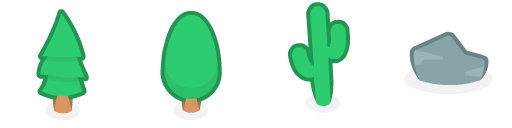
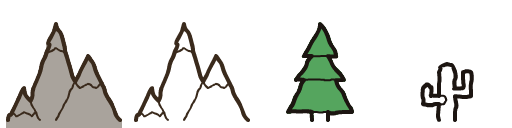
[chore] Mockup: ícones a nanquim, neve nos picos e praia mais larga (#7)
Troca os ícones pelo Kenney Cartography Pack (CC0): montanha, montanha
nevada, pinheiro e cacto, com o traço na tinta do design system. A neve
fica em manchas nos picos das cordilheiras (ridged noise), e a praia passa
de 1 para 3 células.

diff --git a/src/mockup/terrain.ts b/src/mockup/terrain.ts
@@ -39,9 +39,9 @@ export const DEFAULT_MOCK_PARAMS: MockParams = {
   desert: 0.15,
   forest: 0.35,
   mountains: 0.14,
-  snow: 0.4,
+  snow: 0.3,
   shallowWidth: 5,
-  beachWidth: 1,
+  beachWidth: 3,
 }
 
 /** Gerador pseudoaleatório determinístico a partir de um texto (hash FNV-1a + mulberry32). */
@@ -152,10 +152,13 @@ export function generateMockTerrain(
   const warpNoise = valueNoise(rand)
   const moistNoise = valueNoise(rand)
   const toneNoise = valueNoise(rand)
+  const ridgeNoise = valueNoise(rand)
   const n = width * height
   const elevation = new Float32Array(n)
   const moisture = new Float32Array(n)
   const patches = new Float32Array(n)
+  /** Elevação com ruído fino, só para escolher onde há neve: quebra a neve em manchas nos picos. */
+  const snowScore = new Float32Array(n)
 
   for (let y = 0; y < height; y++) {
     for (let x = 0; x < width; x++) {
@@ -169,9 +172,12 @@ export function generateMockTerrain(
       const r = Math.sqrt(dx * dx + dy * dy)
       const mask = 1 - Math.min(1, r * r)
       const i = y * width + x
-      elevation[i] = fbm(elevNoise, wx, wy, 5) * 0.55 + mask * 0.75
+      // Cordilheiras por ridged noise: cristas finas, mais altas no interior da ilha.
+      const ridge = 1 - Math.abs(2 * fbm(ridgeNoise, u * 5 + 3.1, v * 5 + 8.4, 4) - 1)
+      elevation[i] = fbm(elevNoise, wx, wy, 5) * 0.55 + mask * 0.75 + ridge * ridge * ridge * mask * 0.45
       moisture[i] = fbm(moistNoise, u * 4 + 11.7, v * 4 + 3.9, 4)
       patches[i] = fbm(toneNoise, u * 14, v * 14, 3)
+      snowScore[i] = elevation[i] + (fbm(toneNoise, u * 40 + 5.5, v * 40 + 1.7, 2) - 0.5) * 0.4
     }
   }
 
@@ -185,7 +191,7 @@ export function generateMockTerrain(
   const biome = new Uint8Array(n)
   const isInland = (i: number) => land[i] === 1 && toWater[i] > params.beachWidth
   const mountainLevel = quantile(elevation, 1 - params.mountains, isInland)
-  const snowLevel = quantile(elevation, 1 - params.snow, (i) => isInland(i) && elevation[i] >= mountainLevel)
+  const snowLevel = quantile(snowScore, 1 - params.snow, (i) => isInland(i) && elevation[i] >= mountainLevel)
   const hillLevel = quantile(elevation, 1 - params.mountains * 1.8, isInland)
   const isLowland = (i: number) => isInland(i) && elevation[i] < hillLevel
   const desertLevel = quantile(moisture, params.desert, isLowland)
@@ -194,7 +200,7 @@ export function generateMockTerrain(
   for (let i = 0; i < n; i++) {
     if (land[i] === 0) biome[i] = toLand[i] <= params.shallowWidth ? BIOME_ID.shallowWater : BIOME_ID.deepOcean
     else if (!isInland(i)) biome[i] = BIOME_ID.beach
-    else if (elevation[i] >= snowLevel) biome[i] = BIOME_ID.snow
+    else if (elevation[i] >= mountainLevel && snowScore[i] >= snowLevel) biome[i] = BIOME_ID.snow
     else if (elevation[i] >= mountainLevel) biome[i] = BIOME_ID.rockyMountain
     else if (elevation[i] >= hillLevel) biome[i] = BIOME_ID.hill
     else if (moisture[i] <= desertLevel) biome[i] = BIOME_ID.desert
@@ -216,7 +222,8 @@ export function generateMockTerrain(
       return d <= 3 ? 2 : d <= 14 ? 1 : 0
     }
     if (b === BIOME_ID.shallowWater) return toLand[i] <= 1 ? 2 : toLand[i] <= 3 ? 1 : 0
-    if (b === BIOME_ID.beach) return 1
+    // Praia: luz junto da água, base no resto.
+    if (b === BIOME_ID.beach) return toWater[i] <= 1 ? 2 : 1
     // Luz vinda do noroeste: hillshade posterizado, somado a manchas de baixa frequência.
     const x0 = Math.max(0, x - 1)
     const y0 = Math.max(0, y - 1)

diff --git a/src/render/style/decor.ts b/src/render/style/decor.ts
@@ -2,21 +2,38 @@ import decorUrl from './decor.png'
 import type { Biome } from './palette'
 
 /**
- * Spritesheet inicial dos ícones decorativos (`decor.png`, 512×128: quadros de 128 px lado a lado).
- * Origem: Kenney "Map Pack", CC0 (LICENSE-kenney-map-pack.txt e README.md desta pasta).
+ * Spritesheet inicial dos ícones decorativos (`decor.png`, 512×128: quadros de 128 px lado a lado,
+ * com o pé do ícone na borda de baixo).
+ * Origem: Kenney "Cartography Pack", CC0 (LICENSE-kenney-cartography-pack.txt e README.md desta pasta).
  */
 export const DECOR_SHEET_URL = decorUrl
 
 export const DECOR_FRAME_SIZE = 128
 
 export const DECOR_FRAMES = {
-  pine: { x: 0, y: 0 },
-  roundTree: { x: 128, y: 0 },
-  cactus: { x: 256, y: 0 },
-  rock: { x: 384, y: 0 },
+  mountain: { x: 0, y: 0 },
+  snowMountain: { x: 128, y: 0 },
+  pine: { x: 256, y: 0 },
+  cactus: { x: 384, y: 0 },
 } as const
 
 export type DecorKind = keyof typeof DECOR_FRAMES
+
+/** Tamanho de cada ícone no mapa, em px (a 100% de zoom). */
+export const DECOR_SIZE: Record<DecorKind, number> = {
+  mountain: 48,
+  snowMountain: 48,
+  pine: 28,
+  cactus: 26,
+}
+
+/** Chance de um ponto da grade de amostragem receber o ícone (controla a densidade). */
+export const DECOR_DENSITY: Record<DecorKind, number> = {
+  mountain: 0.4,
+  snowMountain: 0.4,
+  pine: 0.75,
+  cactus: 0.22,
+}
 
 /** Ícones possíveis em cada bioma (vazio = sem decoração). */
 export const DECOR_BY_BIOME: Record<Biome, readonly DecorKind[]> = {
@@ -24,9 +41,9 @@ export const DECOR_BY_BIOME: Record<Biome, readonly DecorKind[]> = {
   shallowWater: [],
   beach: [],
   grassland: [],
-  forest: ['pine', 'pine', 'roundTree'],
+  forest: ['pine'],
   desert: ['cactus'],
   hill: [],
-  rockyMountain: ['rock'],
-  snow: [],
+  rockyMountain: ['mountain'],
+  snow: ['snowMountain'],
 }

diff --git a/src/mockup/drawMockup.ts b/src/mockup/drawMockup.ts
@@ -1,4 +1,4 @@
-import { DECOR_BY_BIOME, DECOR_FRAMES, DECOR_FRAME_SIZE } from '../render/style/decor'
+import { DECOR_BY_BIOME, DECOR_DENSITY, DECOR_FRAMES, DECOR_FRAME_SIZE, DECOR_SIZE } from '../render/style/decor'
 import { BIOMES, BIOME_TONES, CANVAS_BACKGROUND, COAST_STROKE, hexToRgb } from '../render/style/palette'
 import { seededRandom, type MockTerrain } from './terrain'
 
@@ -51,8 +51,10 @@ export function placeDecor(t: MockTerrain, seed: string, spacing = 5): DecorPlac
       const cy = Math.floor(y)
       if (cx >= t.width || cy >= t.height) continue
       const kinds = DECOR_BY_BIOME[BIOMES[t.biome[cy * t.width + cx]]]
-      if (kinds.length === 0 || rand() > 0.8) continue
-      out.push({ kind: kinds[Math.floor(pick * kinds.length)], x, y })
+      if (kinds.length === 0) continue
+      const kind = kinds[Math.floor(pick * kinds.length)]
+      if (rand() > DECOR_DENSITY[kind]) continue
+      out.push({ kind, x, y })
     }
   }
   return out.sort((a, b) => a.y - b.y)
@@ -105,12 +107,12 @@ export function drawMockup(
 
   ctx.imageSmoothingEnabled = true
   ctx.imageSmoothingQuality = 'high'
-  const size = 26 * scale
   for (const d of decor) {
+    const size = DECOR_SIZE[d.kind] * scale
     const f = DECOR_FRAMES[d.kind]
     const px = ox + d.x * cell
     const py = oy + d.y * cell
     // Âncora na base central do quadro (o pé do ícone fica perto da borda de baixo).
-    ctx.drawImage(sheet, f.x, f.y, DECOR_FRAME_SIZE, DECOR_FRAME_SIZE, px - size / 2, py - size * 0.9, size, size)
+    ctx.drawImage(sheet, f.x, f.y, DECOR_FRAME_SIZE, DECOR_FRAME_SIZE, px - size / 2, py - size, size, size)
   }
 }

diff --git a/src/mockup/terrain.test.ts b/src/mockup/terrain.test.ts
@@ -59,4 +59,25 @@ describe('terreno do mockup (AC-M0-06)', () => {
       }
     }
   })
+
+  it('põe neve só nos picos: uma parte das montanhas, sempre encostada na rocha', () => {
+    let snow = 0
+    let rock = 0
+    for (const b of terrain.biome) {
+      if (b === BIOME_ID.snow) snow++
+      if (b === BIOME_ID.rockyMountain) rock++
+    }
+    expect(snow / (snow + rock)).toBeCloseTo(DEFAULT_MOCK_PARAMS.snow, 1)
+    // Neve em manchas, não num bloco: cada célula de neve fica a no máximo 6 células da rocha.
+    for (let i = 0; i < terrain.biome.length; i++) {
+      if (terrain.biome[i] !== BIOME_ID.snow) continue
+      const x = i % W
+      const y = Math.floor(i / W)
+      let near = false
+      for (let dy = -6; dy <= 6 && !near; dy++)
+        for (let dx = -6; dx <= 6 && !near; dx++)
+          near = terrain.biome[(y + dy) * W + x + dx] === BIOME_ID.rockyMountain
+      expect(near).toBe(true)
+    }
+  })
 })

diff --git a/src/render/style/README.md b/src/render/style/README.md
@@ -6,14 +6,23 @@ código de desenho.
 | Arquivo | O que guarda |
 |---|---|
 | `palette.ts` | 3 tons por bioma (sombra, base, luz), traço da costa e fundo do canvas, copiados de `docs/design/tokens.json → map` |
-| `decor.png` | Spritesheet inicial dos ícones decorativos: 4 quadros de 128 px (pinheiro, árvore redonda, cacto, rocha) |
-| `decor.ts` | Quadros do spritesheet e quais ícones cada bioma usa |
-| `LICENSE-kenney-map-pack.txt` | Licença original do pacote dos ícones |
+| `decor.png` | Spritesheet inicial dos ícones decorativos: 4 quadros de 128 px (montanha, montanha nevada, pinheiro, cacto) |
+| `decor.ts` | Quadros do spritesheet, tamanho de cada ícone no mapa e quais ícones cada bioma usa |
+| `LICENSE-kenney-cartography-pack.txt` | Licença original do pacote dos ícones |
 
 ## Origem dos ícones
 
 | Quadro | Origem | Licença |
 |---|---|---|
-| `pine`, `roundTree`, `cactus`, `rock` | [Kenney "Map Pack"](https://kenney.nl/assets/map-pack) (Kenney Vleugels, 2016), recortados de `Tilesheet/mapPack_tilesheet_2X.png` | [CC0 1.0](http://creativecommons.org/publicdomain/zero/1.0/) |
+| `mountain`, `snowMountain` | `rocksMountain.png` | CC0 1.0 |
+| `pine` | `treePineLarge.png` | CC0 1.0 |
+| `cactus` | `cactus.png` | CC0 1.0 |
 
-O CC0 não exige crédito; o crédito fica aqui por cortesia.
+Todos vêm do [Kenney "Cartography Pack"](https://kenney.nl/assets/cartography-pack) (Kenney,
+2020), recortados de `Spritesheet/spritesheet_retina.png`. Licença:
+[CC0 1.0](http://creativecommons.org/publicdomain/zero/1.0/). O CC0 não exige crédito; o crédito
+fica aqui por cortesia.
+
+Alterações feitas no recorte: o traço foi recolorido com a tinta do design system (`#3A2A1C` nas
+montanhas, `#1C1511` nos demais) e o miolo foi preenchido com o tom de luz do bioma (montanha
+`#A9A39C`, montanha nevada `#FFFFFF`, pinheiro `#55A55E`). O cacto fica só no traço.
